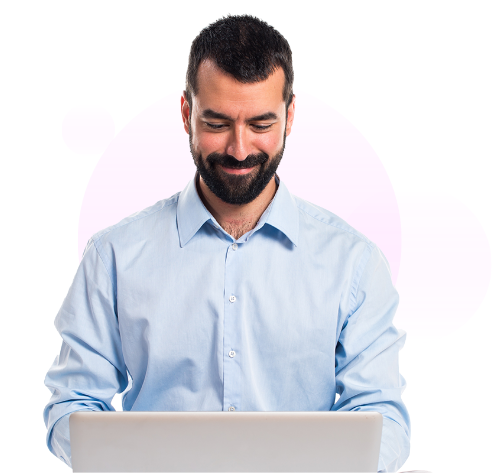
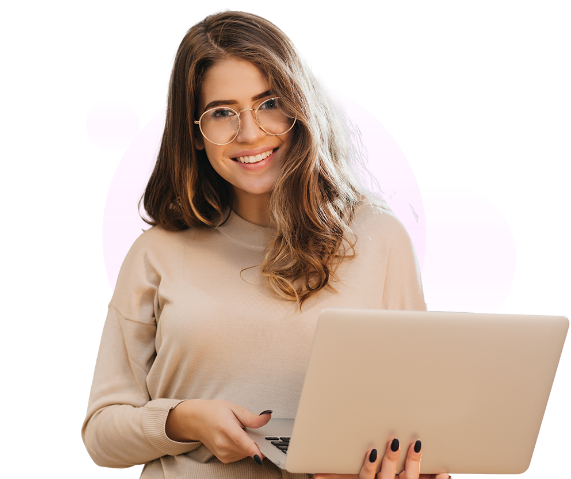
ajuste portada

diff --git a/src/config/global.js b/src/config/global.js
@@ -3,8 +3,8 @@ export default {
     componenteFormativo:
       'Limpieza y transformación de datos: técnicas y herramientas informáticas',
     descripcionCurso:
-      'Este componente presenta una exploración de los procesos de limpieza y transformación de datos, abarcando desde sus fundamentos hasta las técnicas y herramientas más recientes. Examina los diferentes tipos de datos, métodos de importación, técnicas de transformación y las principales herramientas disponibles, incluyendo soluciones comerciales y de código abierto. Orientado tanto a analistas como a personas de nivel técnico, proporciona una guía práctica y sistemática para introducirse a la preparación efectiva de datos en proyectos de análisis.',
-    imagenBannerPrincipal: require('@/assets/curso/portada/banner-princiapal.png'),
+      'Este componente presenta una exploración de los procesos de limpieza y transformación de datos, abarcando desde sus fundamentos hasta las técnicas y herramientas más recientes.',
+    imagenBannerPrincipal: require('@/assets/curso/portada/banner-principalv2.png'),
     fondoBannerPrincipal: require('@/assets/curso/portada/fondo-banner-principal.png'),
     imagenesDecorativasBanner: [
       {

diff --git a/src/styles/_variables.sass b/src/styles/_variables.sass
@@ -74,7 +74,7 @@ $color-link: $color-sistema-texto
 $color-link-hover: darken($color-sistema-texto, 25%)
 
 // Color Botones ---------------------------------------
-$color-btn-fondo: $color-acento-botones
+$color-btn-fondo: $color-acento-contenido
 $color-btn-texto: $color-sistema-texto
 
 // Colores banner --------------------------------------
